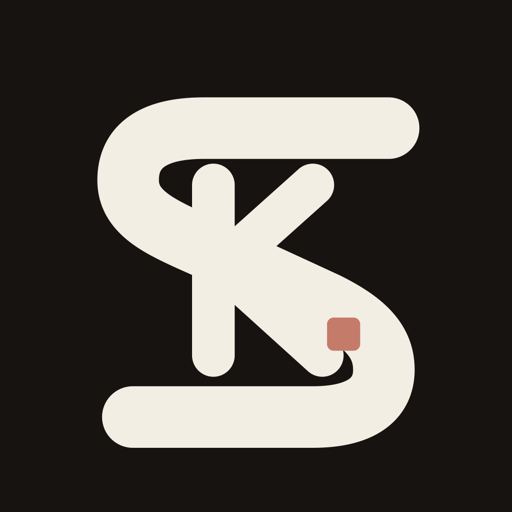
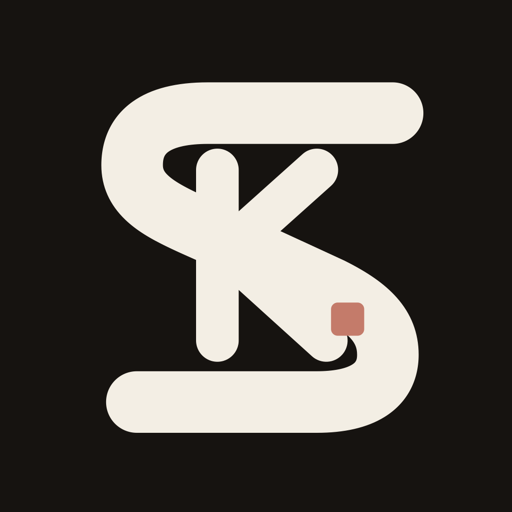
Update optically centered Seekase branding

Changed region(s): [[0.1875, 0.1562, 0.8438, 0.875]]

diff --git a/docs/brand-integration.md b/docs/brand-integration.md
@@ -1,7 +1,7 @@
 # Seekase brand integration map
 
-Status date: 30 September 2026  
-Status: Seekase Brand System v1.1; identity-specific badge redesign integrated, physical-device recheck pending.
+Status date: 10 October 2026
+Status: Seekase Brand System v1.1.2; launcher and social-avatar optical centering updated, physical-device recheck pending.
 
 The canonical brand source lives in `assets/brand/`. Do not redraw or export a second logo family in another folder. New website, Android, store, deck, and badge outputs must be derived from these masters.
 
@@ -17,6 +17,7 @@ The canonical brand source lives in `assets/brand/`. Do not redraw or export a s
 | Wordmark                     | `seekase-wordmark-inverse.svg`, `seekase-wordmark-positive.svg` | Website, deck, and campaign source                                               |
 | Horizontal lockup            | `seekase-lockup-dark.svg`, `seekase-lockup-light.svg`           | Website plus onboarding and account-entry screens                                |
 | dApp Store icon              | `exports/solana-dapp-store/icon-512.png`                        | Final 512 × 512 export; launcher mark approved on physical Seeker                |
+| Social profile avatar        | `exports/social/avatar-1024.png`                                | Optically centered square source for X and other circular profile crops          |
 | dApp Store banner            | `exports/solana-dapp-store/banner-1024x500.png`                 | Final portal derivative from the canonical banner master                         |
 | Feature graphic              | `exports/solana-dapp-store/feature-graphic-1200.png`            | Final 1200 × 1200 export                                                         |
 | Navigation/action icons      | `icons/*.svg`                                                   | Source family represented by code-native equivalents in the signed Android build |

diff --git a/docs/brand-guidelines.md b/docs/brand-guidelines.md
@@ -46,6 +46,7 @@ The core mark must remain intelligible without Clay Marker. Monochrome applicati
 - Master construction canvas: `108 × 108` units.
 - Android guaranteed safe area: centered `66 × 66` units.
 - The S–K mark stays inside that safe area; the background extends edge-to-edge.
+- Center launcher and avatar artwork optically, not only by geometric bounds. The approved master offset is `+0.7 x / -3.2 y` on the `108 × 108` full-size canvas; the adaptive foreground uses `+0.6 x / -2.55 y` after safe-area scaling.
 - Minimum digital mark size: `24 px`; prefer `32 px` or larger.
 - Clear space around a standalone mark: at least the width of the clay square.
 - Do not rotate, outline, stretch, add shadows/gradients, recolor individual white strokes or move the clay square.
@@ -59,6 +60,8 @@ Android adaptive icons use three resources:
 3. `seekase-app-monochrome.svg` as the themeable monochrome layer.
 
 All layers are `108 × 108`. Important content remains inside the centered `66 × 66` safe zone so circular, squircle and OEM masks do not clip it. No background shadow or pre-applied mask belongs in the foreground source.
+
+Launcher, store, and social-avatar exports must come from the optically centered masters. Do not independently drag the mark inside a platform upload tool; use the supplied square asset at 100% scale.
 
 ## Solana dApp Store exports
 
